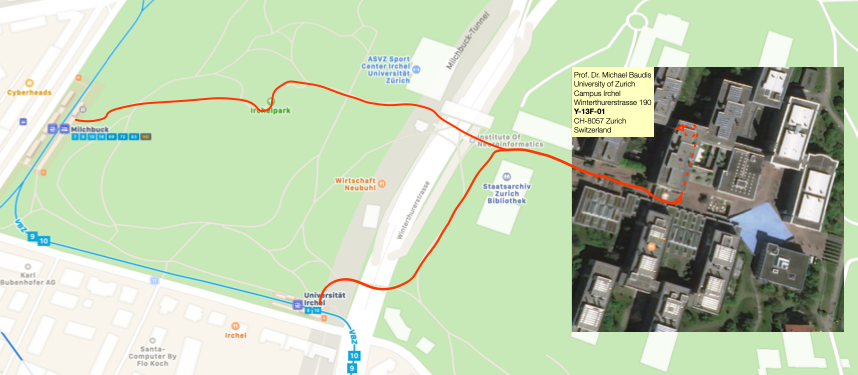
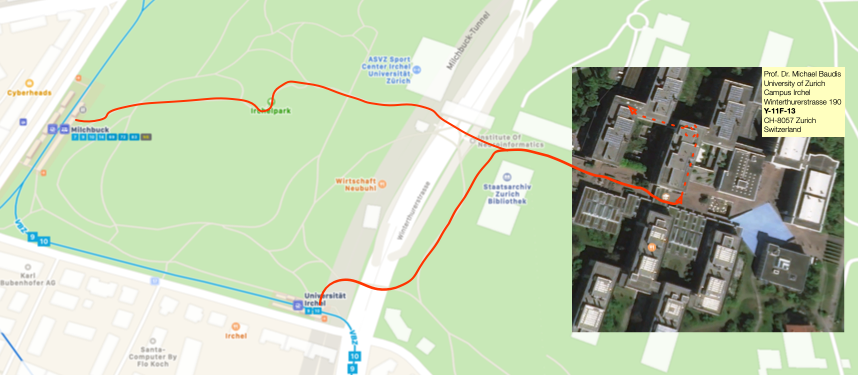
new address

diff --git a/docs/index.md b/docs/index.md
@@ -27,7 +27,7 @@ requests or issues on our project repositories, or [contact us](mailto:contact@p
 
 ### Address
 
-Winterthurerstrasse 190 | Y-13F-01 | CH-8057 Zurich | Switzerland
+Winterthurerstrasse 190 | Y-11F-13 | CH-8057 Zurich | Switzerland
 
 <a href="/img/access-map-Irchel.png" target="_blank">![How to find the Baudisgroup](/img/access-map-Irchel.png){:style="width: 80%;"}</a>
 
